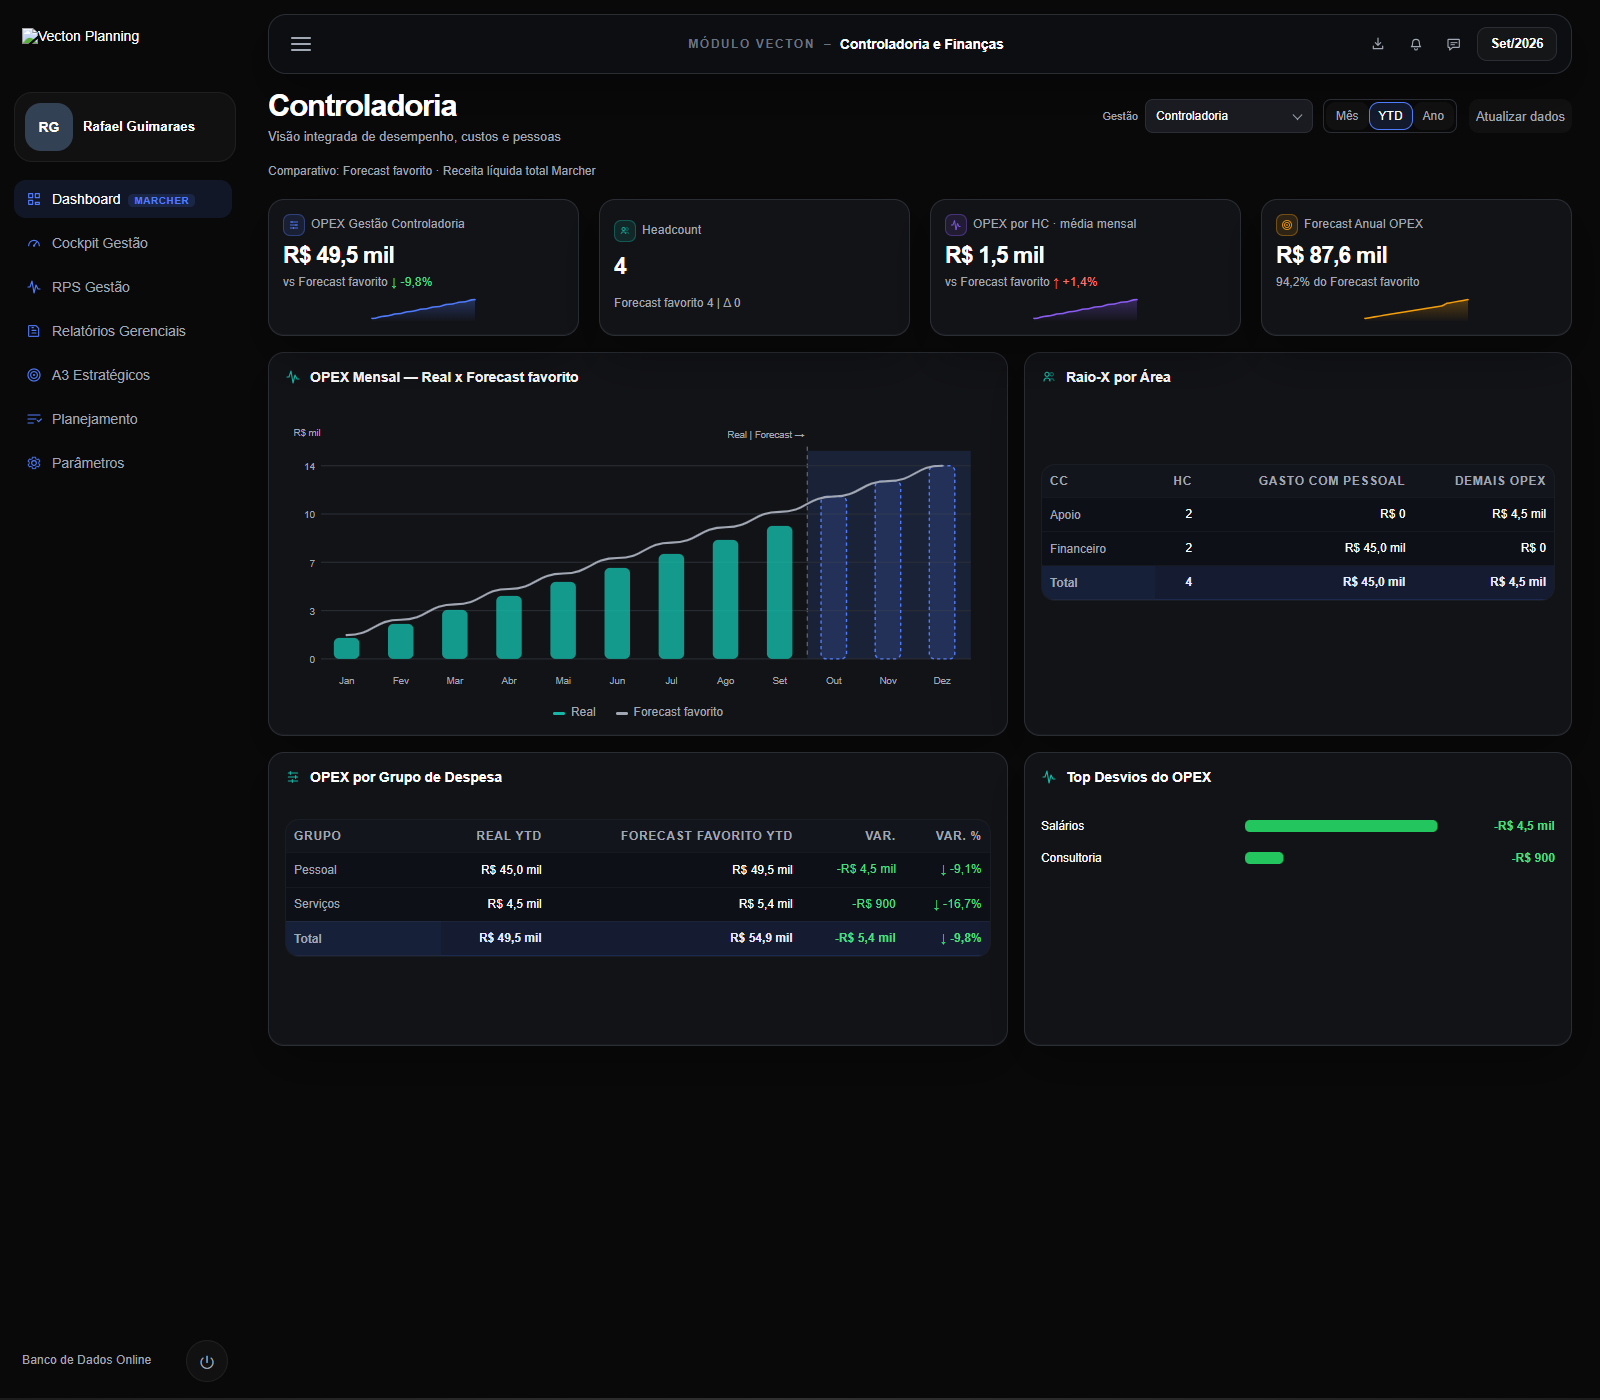
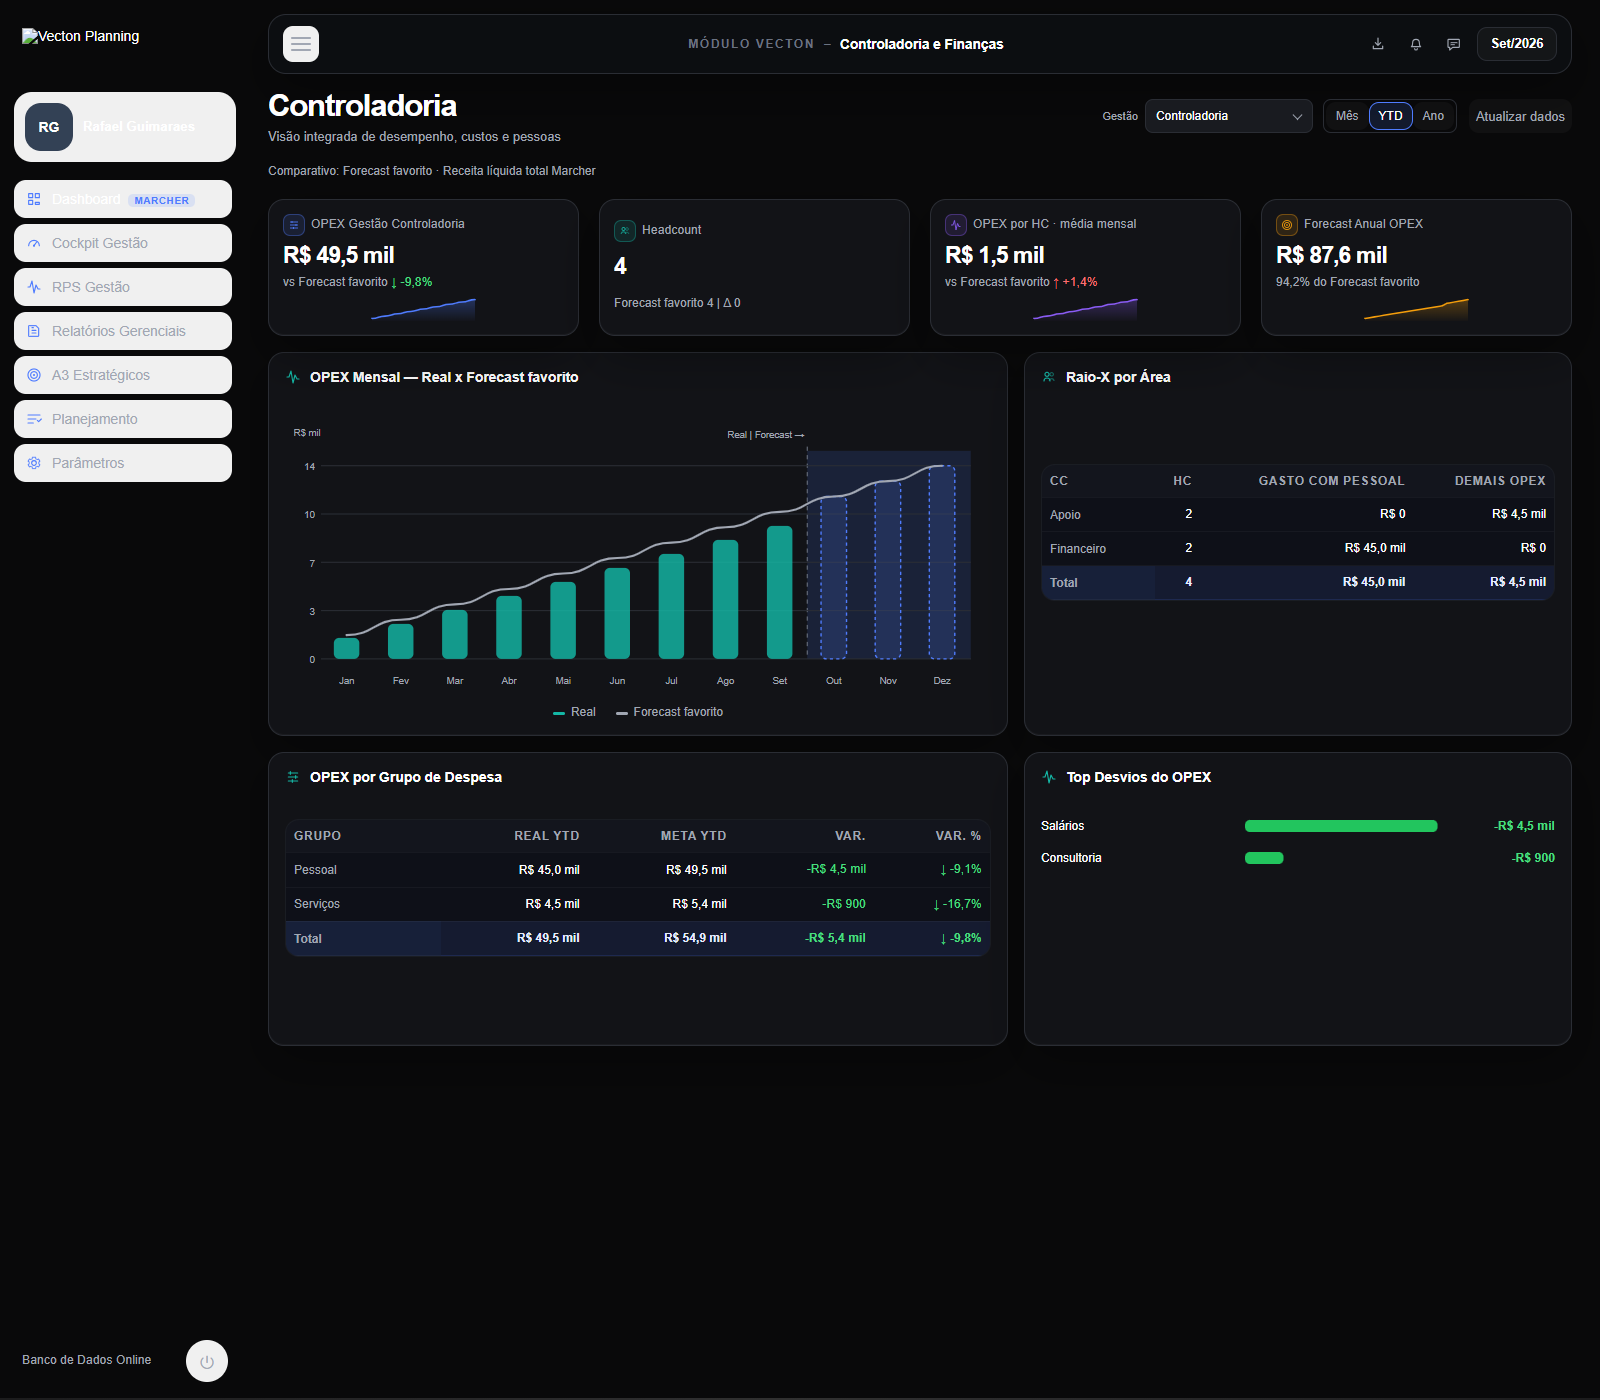
fix(cockpit): ajusta rótulos do cabeçalho e da tabela de grupos
- Breadcrumb do módulo: "Módulo Vecton — Cockpit Gestão" vira
  "Cockpit Gestão — Desempenho, custos e pessoas" (evita repetir
  "Cockpit Gestão" duas vezes na mesma barra).
- Coluna de comparação em "OPEX por Grupo de Despesa": "Fcst 5+7 Mês"
  vira "Meta Mês".

diff --git a/index.html b/index.html
@@ -1509,7 +1509,7 @@
   <script src="https://cdn.jsdelivr.net/npm/@supabase/supabase-js@2"></script>
   <script src="https://unpkg.com/lucide@0.468.0/dist/umd/lucide.min.js"></script>
   <script src="src/core/pwa.js?v=20260902a"></script>
-  <script src="src/core/constants.js?v=20260910b"></script>
+  <script src="src/core/constants.js?v=20260910c"></script>
   <script src="src/core/utils.js?v=20260803b"></script>
   <script src="src/core/storage.js?v=20260719r"></script>
   <script src="src/modules/auth/authSession.js?v=20260902b"></script>
@@ -1556,7 +1556,7 @@
   <script src="src/modules/cockpit/cockpitAggregate.js?v=20260910g"></script>
   <script src="src/modules/cockpit/cockpitService.js?v=20260910b"></script>
   <script src="src/modules/cockpit/cockpitFormat.js?v=20260910b"></script>
-  <script src="src/modules/cockpit/cockpitWidgets.js?v=20260910o"></script>
+  <script src="src/modules/cockpit/cockpitWidgets.js?v=20260910p"></script>
   <script src="src/modules/cockpit/cockpitModule.js?v=20260910l"></script>
   <script src="src/modules/dashboard/dashboardCards.js?v=20260719r"></script>
   <script src="src/modules/dashboard/dashboardModule.js?v=20260720e"></script>

diff --git a/src/modules/cockpit/cockpitWidgets.js b/src/modules/cockpit/cockpitWidgets.js
@@ -119,7 +119,7 @@
     const headers = [
       th("Grupo", "name", groupsSort.key === "name", groupsSort.dir),
       th(`${valueLabel(data)} ${periodLabel(data)}`, "actual", groupsSort.key === "actual", groupsSort.dir),
-      th(`${comparisonLabel(data)} ${periodLabel(data)}`, "budget", groupsSort.key === "budget", groupsSort.dir),
+      th(`Meta ${periodLabel(data)}`, "budget", groupsSort.key === "budget", groupsSort.dir),
       th("Var.", "variance", groupsSort.key === "variance", groupsSort.dir),
       th("Var. %", "variancePercent", groupsSort.key === "variancePercent", groupsSort.dir)
     ];

diff --git a/src/core/constants.js b/src/core/constants.js
@@ -66,7 +66,7 @@ const ROOT_CC_NODE = {
 };
 
 const VIEW_HEADER_METADATA = {
-  cockpit: { kicker: "Módulo Vecton", title: "Cockpit Gestão" },
+  cockpit: { kicker: "Cockpit Gestão", title: "Desempenho, custos e pessoas" },
   rps:       { kicker: "GESTÃO",         title: "Reunião de Performance Semanal" },
   strategic: { kicker: "GESTÃO ESTRATÉGICA", title: "A3 Estratégicos" },
   dashboard: { kicker: "DASHBOARD",     title: "Cockpit Executivo" },

diff --git a/sw.js b/sw.js
@@ -1,5 +1,5 @@
 const CACHE_PREFIX = "vecton-static-";
-const CACHE_NAME = `${CACHE_PREFIX}20260910v`;
+const CACHE_NAME = `${CACHE_PREFIX}20260910w`;
 const APP_SHELL = [
   "./",
   "./index.html",
